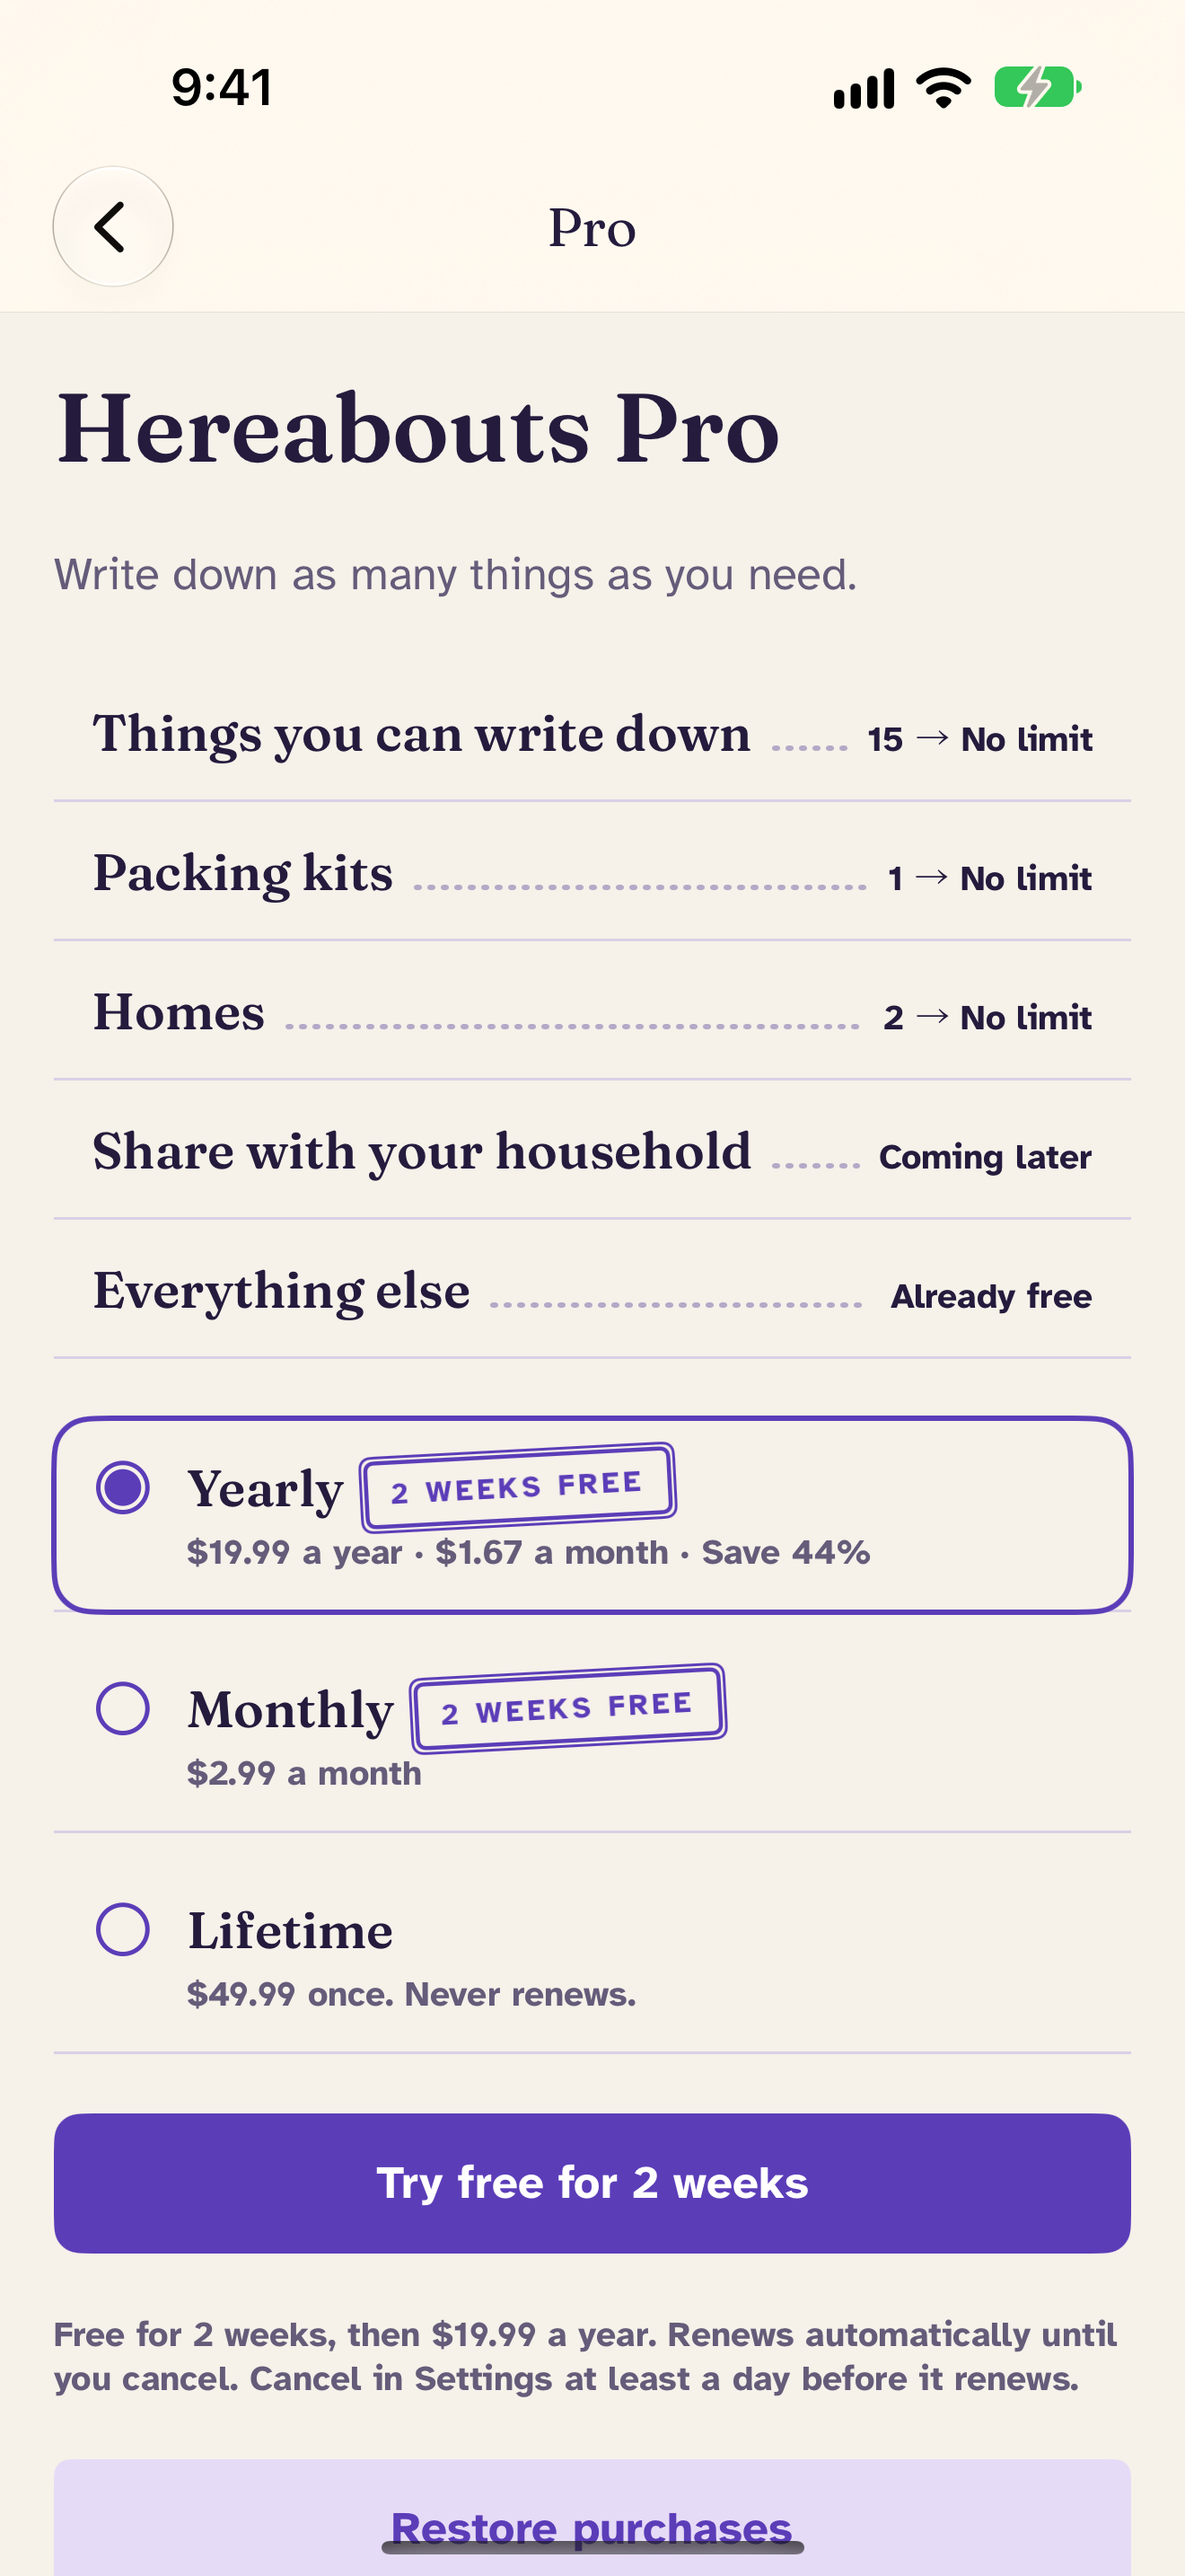
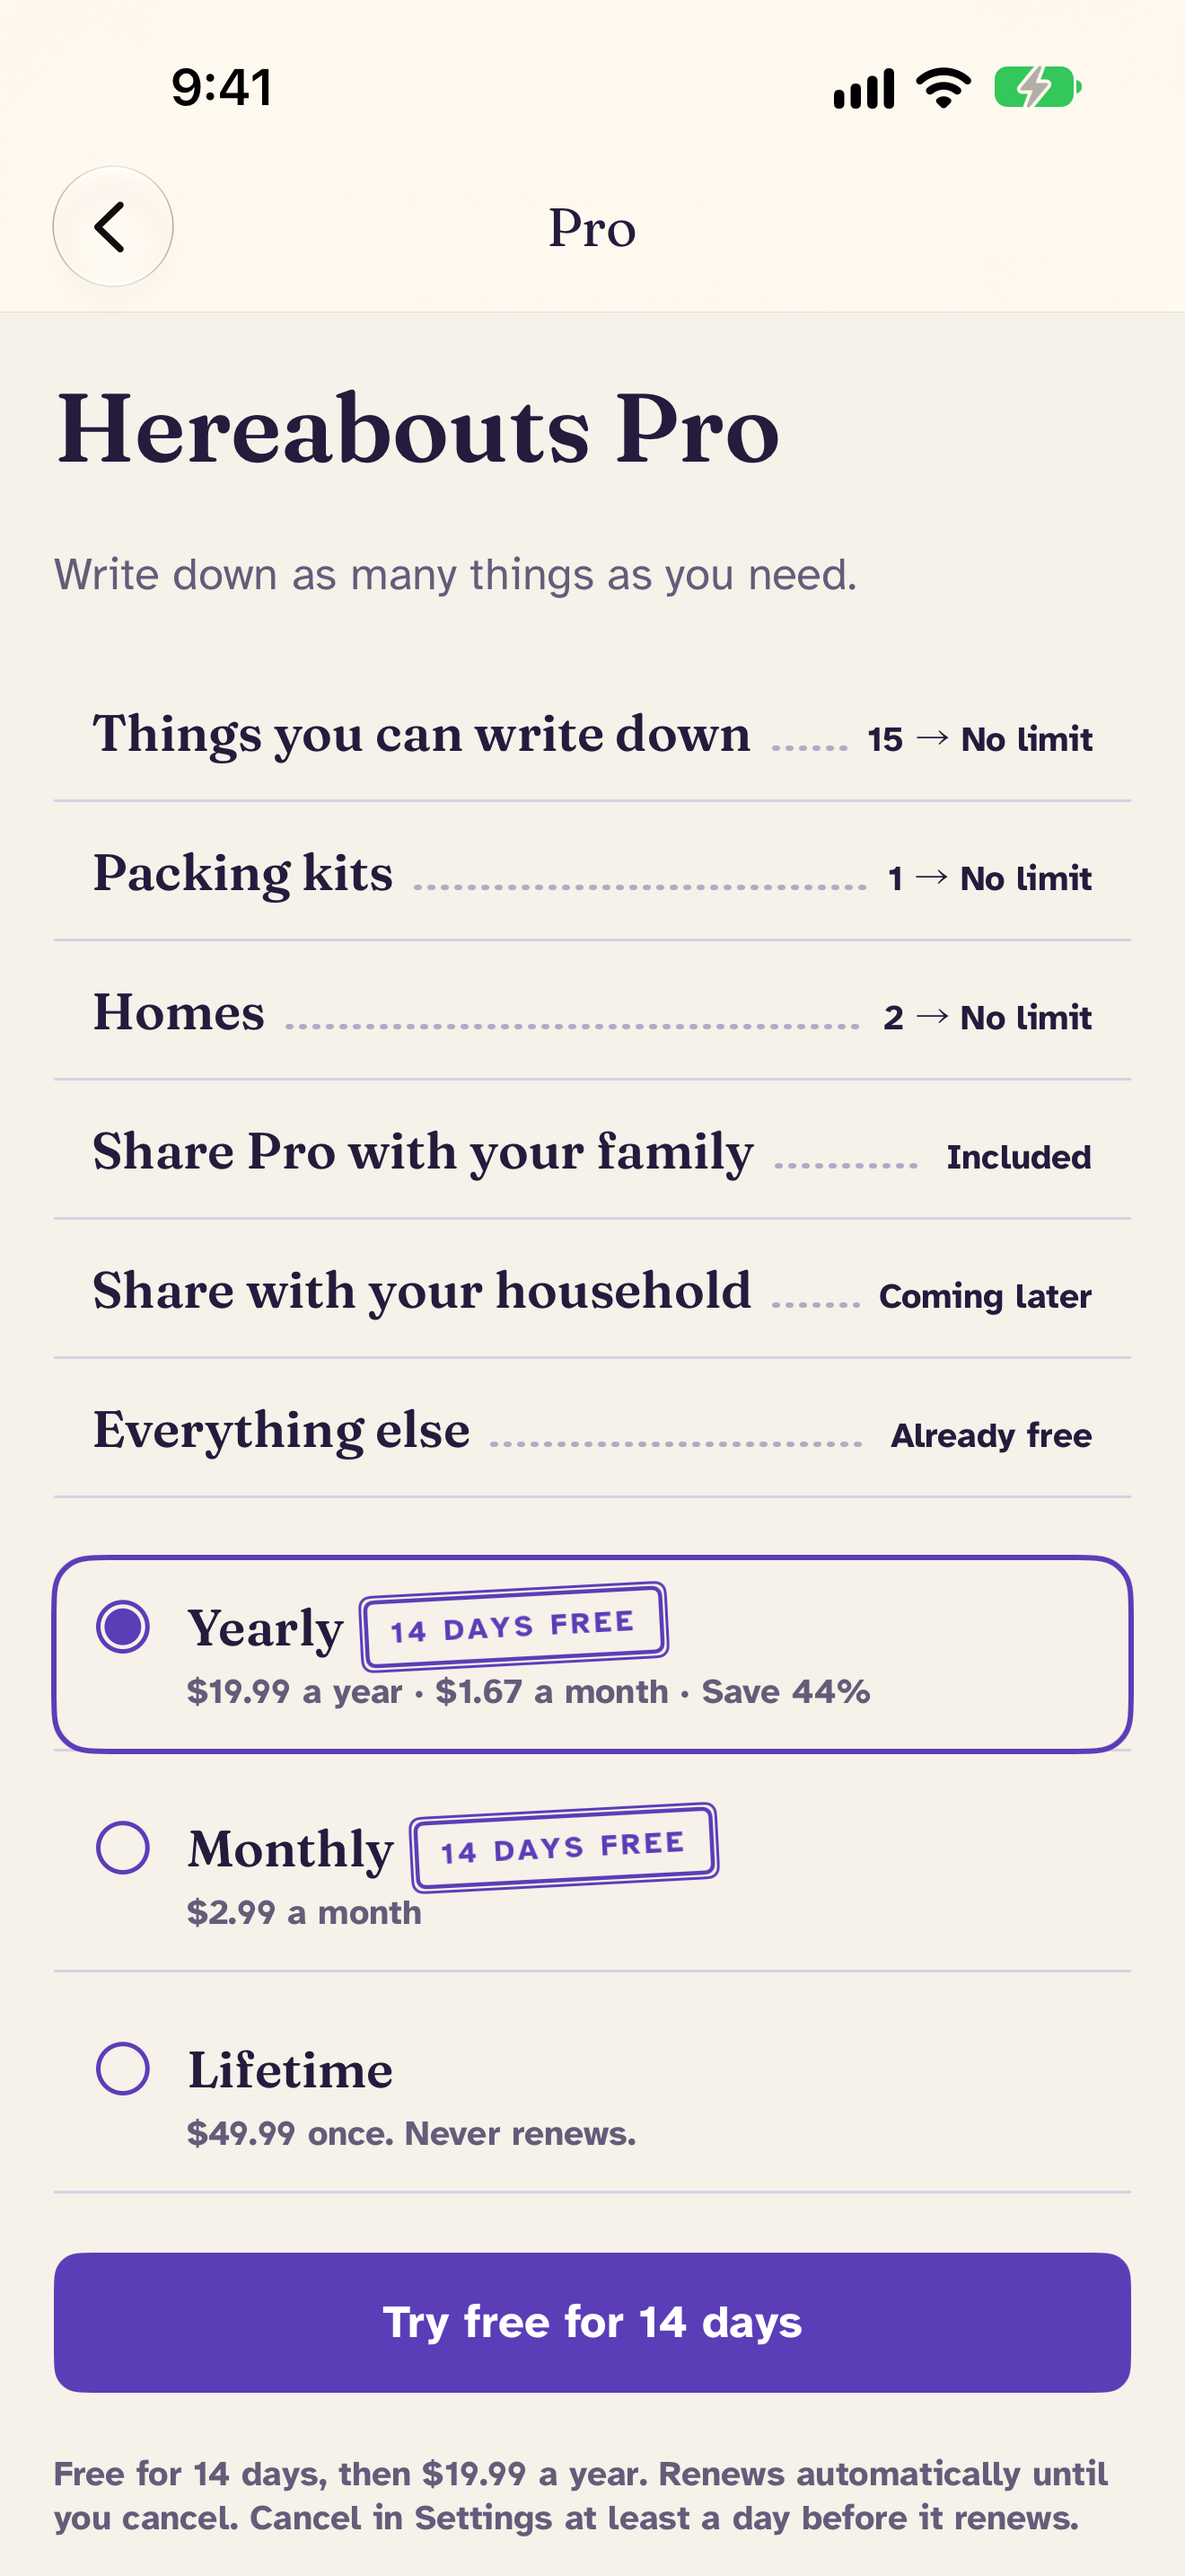
Store: 13-inch iPad screenshots (M67)
iPad and Duo sets, README, 2-voice rename, 5-pro retaken for the family row.

diff --git a/Docs/Store/README.md b/Docs/Store/README.md
@@ -1,6 +1,6 @@
 # Store screenshots
 
-Taken 7 November 2026 on the iPhone 17 Pro Max simulator (6.9-inch, 1320 × 2868), iOS 27, light mode, default text size, status bar at 9:41. They come from the Debug-only demo library, so no real names or documents appear. The Pro shot shows the plans loaded from the local StoreKit file.
+The iPhone set was taken 7 November 2026 on the iPhone 17 Pro Max simulator (6.9-inch, 1320 × 2868), iOS 27, light mode, default text size, status bar at 9:41. `5-pro.png` was retaken on 8 November for the "Share Pro with your family" row. The iPad set (`iPad-13/`, 2064 × 2752, upright) was taken on 8 November on the iPad Pro 13-inch (M5) simulator, iOS 27, the same way. They come from the Debug-only demo library, so no real names or documents appear. The Pro shots show the plans loaded from the local StoreKit file.
 
 Retake them with the simulator booted and its status bar and appearance set:
 
@@ -12,17 +12,27 @@ TEST_RUNNER_STORE_SHOTS=/private/tmp/hb-store xcodebuild -project Localiser.xcod
 
 The test also writes `review-*` design-review shots to the same folder. They are not for the store.
 
+The iPad and Duo shots come from a separate test, in portrait. `STORE_SHOTS` is the folder, and the test writes the five files straight into it:
+
+```bash
+xcrun simctl ui <ipad> appearance light
+TEST_RUNNER_STORE_SHOTS=/private/tmp/hb-store-ipad xcodebuild -project Localiser.xcodeproj -scheme Localiser -testPlan Localiser -destination 'platform=iOS Simulator,id=<ipad>' -only-testing:LocaliserUITests/LocaliserWideUITests/testWideStoreScreenshots test
+```
+
 | File | Caption |
 | --- | --- |
 | `iPhone-6.9/1-find.png` | Find your things by place |
-| `iPhone-6.9/2-voice-optional.png` | Say where it is. Check it. Save it. |
+| `iPhone-6.9/2-voice.png` | Say where it is. Check it. Save it. |
 | `iPhone-6.9/3-lending.png` | Know who to ask for it back |
 | `iPhone-6.9/4-trip.png` | Reuse your packing list |
 | `iPhone-6.9/5-pro.png` | No account. Always yours to export |
+| `iPad-13/1-find.png` to `iPad-13/5-pro.png` | The same five screens, with the sidebar, on the 13-inch iPad |
+| `Duo/1-find.png` to `Duo/5-pro.png` | The same five screens on the Duo's inner screen (not an App Store size; for the website and review) |
 
 Notes:
-- **Voice memo:** `2-voice-optional.png` is the only shot that shows voice memos. If they are cut for 1.0, delete that file and upload four.
+- **Voice memo:** `2-voice.png` is the only shot that shows voice memos. If they are cut, delete that file and upload four.
+- **Duo:** a UI test's own screenshot of the Duo comes back black, so the Duo set (2853 × 2007, landscape, unfolded) is taken with `xcrun simctl io <duo> screenshot --display=3`. Put an empty file called `external` in the `STORE_SHOTS` folder: the test then writes `<name>.ready` at each screen and waits up to a minute for `<name>.done`, and a script takes the screenshot in between. The order is 2-voice, 3-lending, 1-find, 4-trip, 5-pro.
 - **Reminders:** the test turns reminders on before the first shot, so Settings carries no warning badge. On a simulator where notifications were already denied, run `xcrun simctl uninstall <device> dev.hereabouts.app` first.
-- **Sizes:** the 6.9-inch set is the only required iPhone size. The app is iPhone-only, so iPad screenshots aren't required, and App Store Connect scales this set down for smaller iPhones.
+- **Sizes:** the 6.9-inch set is the only required iPhone size, and App Store Connect scales it down for smaller iPhones. The app runs on iPad, so the 13-inch iPad set (2064 × 2752) is required too, and App Store Connect scales it down for smaller iPads.
 
 `night-review/` holds the same five screens in dark mode, downscaled, for checking against the night board. They are not for the store.
